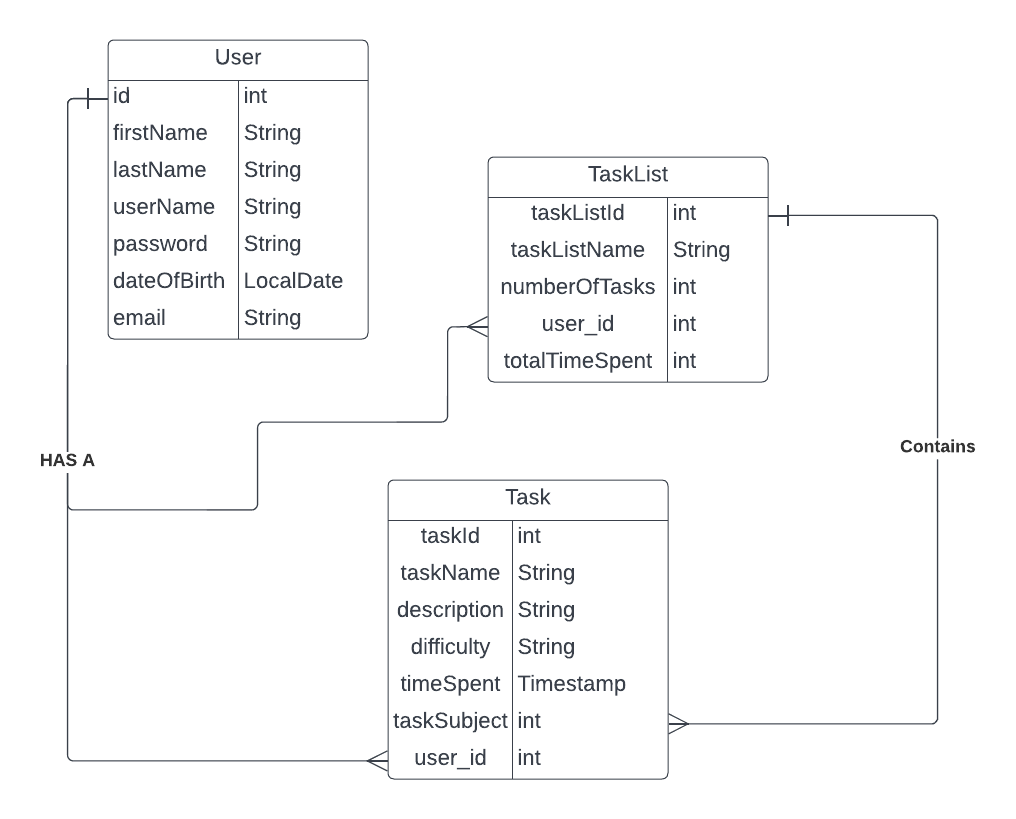
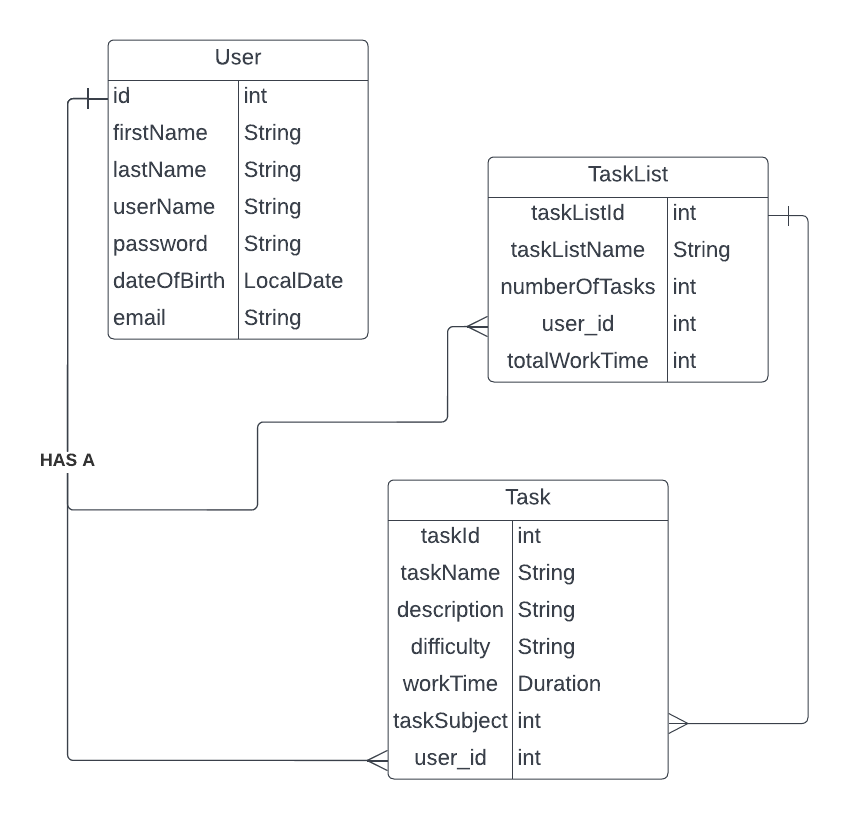
Make changes to Task, TaskList, and User classes to implement OneToMany and ManyToOne methods

diff --git a/src/main/java/edu/productivity/entity/Task.java b/src/main/java/edu/productivity/entity/Task.java
@@ -30,10 +30,11 @@ public class Task {
 
     public Task(){
     }
-    public Task(String taskName, String description, User user) {
+    public Task(String taskName, String description, User user, TaskList taskList) {
         this.taskName = taskName;
         this.description = description;
         this.user = user;
+        this.taskList = taskList;
     }
 
     public int getId() {
@@ -72,7 +73,6 @@ public class Task {
 
         Duration workTime = Duration.between(startTime, endTime);
     }
-
 
     /**
      * Bidirectional @OneToMany
@@ -144,8 +144,10 @@ public class Task {
     public String toString() {
         return "Task{" +
                 "id=" + id +
-                ", task_name='" + taskName + '\'' +
+                ", taskName='" + taskName + '\'' +
                 ", description='" + description + '\'' +
+                ", workTime=" + workTime +
+                ", taskList=" + taskList +
                 ", user=" + user +
                 '}';
     }

diff --git a/src/test/java/edu/productivity/persistence/UserDataTest.java b/src/test/java/edu/productivity/persistence/UserDataTest.java
@@ -1,5 +1,6 @@
 package edu.productivity.persistence;
 
+import edu.productivity.entity.TaskList;
 import edu.productivity.entity.User;
 import edu.productivity.entity.Task;
 import org.apache.logging.log4j.LogManager;
@@ -37,7 +38,8 @@ class UserDataTest {
         String taskName = "Complete Journal Entry";
         String description = "Finish journal entry for Internship class by 10/10/2022";
         User newUser = new User(5, "Ebony", "Diaz", "eDiaz", "password5", LocalDate.parse("2001-12-29"), "eDiaz@gmail.com");
-        Task task = new Task(taskName, description, newUser);
+        TaskList newTaskList = new TaskList();
+        Task task = new Task(taskName, description, newUser, newTaskList);
         newUser.addTask(task);
         int id = userDao.insert(newUser);
         assertNotEquals(0, id);

diff --git a/src/main/java/edu/productivity/entity/User.java b/src/main/java/edu/productivity/entity/User.java
@@ -151,6 +151,7 @@ public class User {
         tasks.remove(task);
         task.setUser(null);
     }
+
     @Override
     public String toString() {
         return "User{" +
@@ -159,7 +160,9 @@ public class User {
                 ", lastName='" + lastName + '\'' +
                 ", userName='" + userName + '\'' +
                 ", password='" + password + '\'' +
-                ", dateOfBirth='" + dateOfBirth + '\'' +
+                ", dateOfBirth=" + dateOfBirth +
+                ", email='" + email + '\'' +
+                ", tasks=" + tasks +
                 '}';
     }
 

diff --git a/src/main/java/edu/productivity/entity/TaskList.java b/src/main/java/edu/productivity/entity/TaskList.java
@@ -24,6 +24,8 @@ public class TaskList {
     private int numberOfTasks;
     @Column(name = "total_work_time")
     private String totalWorkTime;
+
+    //TODO: Figure out how to make number of tasks count the number of tasks with the same foreign key tasklist id.
     /**
      * Bidirectional @OneToMany
 
@@ -82,6 +84,11 @@ public class TaskList {
     public void addTask(Task task){
         tasks.add(task);
         task.setUser(this.user);
+    }
+
+    public void removeTask(Task task){
+        tasks.remove(task);
+        task.setUser(null);
     }
 
     /**

diff --git a/src/test/java/edu/productivity/persistence/TaskDataTest.java b/src/test/java/edu/productivity/persistence/TaskDataTest.java
@@ -29,7 +29,7 @@ class TaskDataTest {
         User user = userDao.getById(1);
         String taskName = "Organize meeting with group";
         String taskDescription = "Organize a meeting next week to discuss next steps";
-        Task newTask = new Task(taskName, taskDescription, user);
+        Task newTask = new Task(taskName, taskDescription, user, taskList);
         user.addTask(newTask);
         int id = taskDao.insert(newTask);
         assertNotEquals(0, id);
